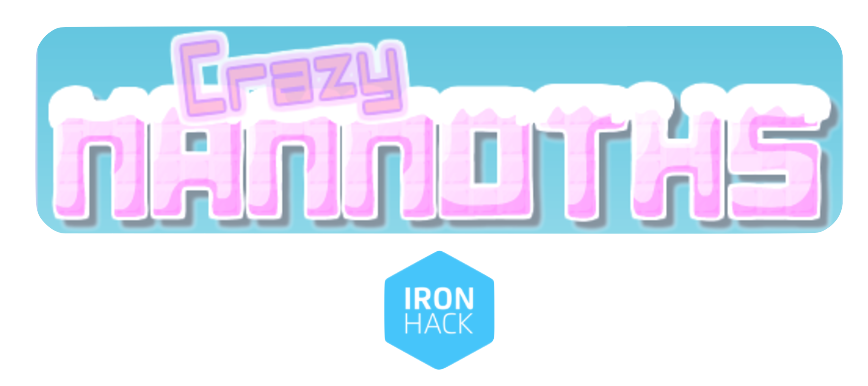
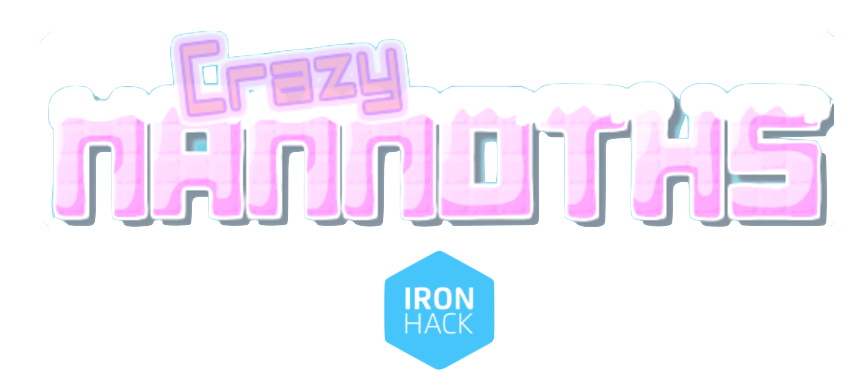
GAME FINISHEDgit status! Yuhuuuuuu

Changed region(s): [[0.0311, 0.0622, 0.9954, 0.6218], [0.5599, 0.3731, 0.591, 0.4663], [0.7776, 0.3109, 0.8088, 0.3731]]

diff --git a/js/board.js b/js/board.js
@@ -3,7 +3,7 @@ function Board(canvas, ctx, backgroundImage) {
   this.ctx = ctx;
 
   // board fix properties
-  this.ctx.translate(400,450);
+  this.ctx.translate(this.canvas.width/2,this.canvas.height*3/4);
   this.ctx.scale(1,-1);
   this.degreeToRad = -Math.PI/180;
   this.backgroundImage = new Image();
@@ -13,9 +13,9 @@ function Board(canvas, ctx, backgroundImage) {
   this.angle = 0;
   this.angleRotation = 0.03;
   this.ctx.rotate(this.degreeToRad*this.angleRotation);
-  this.imagex = -450;
+  this.imagex = -200;
   this.imageVx = 5;
-  this.imagey = -370;
+  this.imagey = -550;
   this.gravity = -0.26;
    //Is it wrong this way?
    //document.dokeydown = this.m1.doKeyDown.bind(this.m1);
@@ -25,9 +25,13 @@ Board.prototype.drawSkyline = function () {
   //dirty solution to clean all canvas
   this.ctx.clearRect(-800, -800, this.canvas.width+1000, this.canvas.height+1000);
   // I draw three times the background so that Mammoths can go "backwards"
-  this.ctx.drawImage(this.backgroundImage, 2, 2, this.backgroundImage.width, this.backgroundImage.height, this.imagex - this.backgroundImage.width, this.imagey, this.backgroundImage.width*2, this.backgroundImage.height*2);
-  this.ctx.drawImage(this.backgroundImage, 2, 2, this.backgroundImage.width, this.backgroundImage.height, this.imagex, this.imagey, this.backgroundImage.width*2, this.backgroundImage.height*2);
-  this.ctx.drawImage(this.backgroundImage, 2, 2, this.backgroundImage.width, this.backgroundImage.height, this.imagex + this.backgroundImage.width, this.imagey, this.backgroundImage.width*2, this.backgroundImage.height*2);
+  // this.ctx.drawImage(this.backgroundImage, 2, 2, this.backgroundImage.width, this.backgroundImage.height, this.imagex - this.backgroundImage.width, this.imagey, this.backgroundImage.width*2, this.backgroundImage.height*2);
+  // this.ctx.drawImage(this.backgroundImage, 2, 2, this.backgroundImage.width, this.backgroundImage.height, this.imagex, this.imagey, this.backgroundImage.width*2, this.backgroundImage.height*2);
+  // this.ctx.drawImage(this.backgroundImage, 2, 2, this.backgroundImage.width, this.backgroundImage.height, this.imagex + this.backgroundImage.width, this.imagey, this.backgroundImage.width*2, this.backgroundImage.height*2);
+
+  this.ctx.drawImage(this.backgroundImage, 2, 2, this.backgroundImage.width, this.backgroundImage.height, this.imagex - this.backgroundImage.width*2, this.imagey, this.backgroundImage.width*3, this.backgroundImage.height*3);
+  this.ctx.drawImage(this.backgroundImage, 2, 2, this.backgroundImage.width, this.backgroundImage.height, this.imagex, this.imagey, this.backgroundImage.width*3, this.backgroundImage.height*3);
+  this.ctx.drawImage(this.backgroundImage, 2, 2, this.backgroundImage.width, this.backgroundImage.height, this.imagex + this.backgroundImage.width*2, this.imagey, this.backgroundImage.width*3, this.backgroundImage.height*3);
   // If tha canvas background is going to finish, I change this.imagex to restart the drawing position
   if(this.imagex > -(450 + this.backgroundImage.width) && this.imagex < this.backgroundImage.width - 450){
     this.imagex -= this.imageVx;
@@ -38,7 +42,7 @@ Board.prototype.drawSkyline = function () {
   // this.ctx.beginPath();
   // this.ctx.moveTo(-500,0);
   // this.ctx.lineTo(500,0);
-  //this.ctx.stroke();
+  // this.ctx.stroke();
 };
 
 //move horizon
@@ -48,7 +52,7 @@ Board.prototype.moveSkyline = function(){
   }else if(this.angle < -20){
     this.angleRotation *= -1;
   }
-  this.angle += this.angleRotation;
+  this.angle += this.angleRotation*2;
   this.imageVx = this.angle*1.5;
   this.ctx.rotate(this.degreeToRad*this.angleRotation);
   // integence to gravity depending on the angle

diff --git a/js/game.js b/js/game.js
@@ -1,6 +1,9 @@
-function Game(canvas){
+function Game(canvas, gameTime){
   this.canvas = document.getElementById(canvas);
+  this.gameTime = gameTime;
   this.ctx = this.canvas.getContext('2d');
+  this.ctx.canvas.width  = window.innerWidth;
+  this.ctx.canvas.height = window.innerHeight;
 
   this.listOfMammoth = [];
   // I add mammoths and the board to the game
@@ -38,10 +41,15 @@ Game.prototype.checkFirstPosition = function () {
   // -----------------  Four mammoths ----------------
   document.getElementById("3rd").innerHTML = game.listOfMammoth[2].name + "  (" + game.listOfMammoth[2].timeFirstPosition +"ms)";
   document.getElementById("4th").innerHTML = game.listOfMammoth[3].name + "  (" + game.listOfMammoth[3].timeFirstPosition +"ms)";
+
+  document.getElementById("gameTime").innerHTML = "Game time: " + Math.round(game.gameTime/1000);
 };
 
-Game.prototype.checkWinner = function(){
 
+Game.prototype.checkWinner = function(){
+    //window.alert("The Winner is: " + game.listOfMammoth[0].name + " !!");
+    document.getElementById("winnerImg").src=this.listOfMammoth[0].img.src;
+    document.getElementById("winnerDiv").style.display = "block";
 };
 
 // we can use only one function for first position
@@ -53,7 +61,7 @@ Game.prototype.checkWinner = function(){
 // };
 
 // new game
-var game = new Game("canvas");
+var game = new Game("canvas",60000);
 
 // document.getElementById('playButton').onClick = function(){
 //   alert("Hola");
@@ -62,8 +70,9 @@ var game = new Game("canvas");
 // WARNING: If I click many times ... I have many Set intervals
 function play(){
     document.getElementById("button").disabled = true;
+    document.getElementById("button").style.display = "none";
     var addCanvas = document.getElementById("canvas");
-    addCanvas.classList.add("canvasDesign");
+    addCanvas.style.display = "block";
     // why this does not work?
     //document.getElementById("canvas").addClass("canvasDesign");
     var intervalId = window.setInterval(function(){
@@ -83,11 +92,14 @@ function play(){
       game.mammoth69.drawMammoth();
       this.addEventListener("keydown",game.mammoth69.doKeyDown.bind(game.mammoth69),true);
 
+      game.gameTime -= 1000/60;
       game.checkFirstPosition();
-    }, 1000/60);
+
+    }, 1000/45);
 
     setTimeout(function(){
-      //window.clearInterval(intervalId);
-    }, 3000);
+      window.clearInterval(intervalId);
+      game.checkWinner();
+    }, game.gameTime);
 
 }

diff --git a/css/index.css b/css/index.css
@@ -3,58 +3,58 @@
   color: #2F4F4F;
 }
 
-.canvasDesign{
-  border: 1px solid pink;
-  margin-top: 20px;
+#canvas{
   background-color: #51c4e0;
+  position: relative;
+  z-index: 3;
+  display: none;
 }
 
 body{
+  margin: 0;
   text-align: center;
   background-image: url("../images/webBackground.png");
   background-size: cover;
   background-repeat: no-repeat;
 
 }
-body button {
-  font-size: 20px;
-  background-color: #3dc4fd;
-  color: #fff;
-  padding: 10px 20px;
-  margin: 25px;
-  border: 0;
-  box-shadow: 0;
-  border-radius: 5px;
+#winnerDiv{
+  z-index: 2000000;
+  position: absolute;
+  bottom: 0;
+  margin-bottom: 300px;
+  width: 100%;
+  display: none;
 }
-header{
-  display: flex;
-  justify-content: center;
+#winnerImg{
+  width: 4000px
+  height: auto;
+  transform: rotate(180deg);
 }
-header img{
-  height: 200px
-}
-#title{
-    height: 50px;
-    width: 100%;
-}
+
 #game{
   display: flex;
   justify-content: space-between;
-  height: 180px;
+  height: auto;
+  position: absolute;
+  top:0;
+  left:0;
+  width:100%;
 }
 #game > div{
-  font-family: serif;
-  font-style: italic;
-  font-weight: bold;
-  margin: 0px 60px;
-  padding: 10px;
-  width: 200px;
+  padding: 20px;
+  z-index: 999;
 }
+
 #clasification h1{
   margin: 1px;
   font-size: 27px;
 }
+#title img{
+    height: 200px;
+}
 #firstPosition h1{
+
   margin: 1px;
   font-size: 30px;
 
@@ -64,4 +64,23 @@ header img{
   height: 100px;
   width: auto;
   padding: 10px;
+}
+
+#holdPlay{
+  position: absolute;
+  bottom: 0;
+  z-index: 2000;
+  width: 100%;
+  margin-bottom: 80px;
+}
+
+#holdPlay button {
+  font-size: 20px;
+  background-color: #3dc4fd;
+  color: #fff;
+  padding: 10px 20px;
+  margin: 25px;
+  border: 0;
+  box-shadow: 0;
+  border-radius: 5px;
 }

diff --git a/index.html b/index.html
@@ -8,13 +8,15 @@
     <link href="https://fonts.googleapis.com/css?family=Roboto+Mono" rel="stylesheet">
   </head>
   <body>
-    <header>
-      <div id="title">
-        <img src="images/title2.png" alt="title">
-      </div>
-    </header>
+    <canvas id="canvas"></canvas>
+
+    <div id="winnerDiv">
+      <h1> The super Winner is: </h1>
+      <img id="winnerImg" src="images/Mammoth10.png" alt="mammoth Winner">
+    </div>
 
     <div id="game">
+
       <div id="clasification">
         <h1>Game clasification</h1>
         <ol>
@@ -24,14 +26,22 @@
           <li id="4th"></li>
         </ol>
       </div>
+
+      <div id="title">
+        <img src="images/title3.png" alt="title">
+      </div>
+
       <div id="firstPosition">
         <h1>First Mammoth</h1>
-        <img id="firstMammoth" src= "images/Mammoth10.png" alt="mammoth Winner">
+        <img id="firstMammoth" src= "images/Mammoth10.png" alt="mammoth Winning">
       </div>
-    </div>
-    <canvas id="canvas" width="800px" height="600px"></canvas>
 
-    <div><button id="button" onclick="play()">Play</button></div>
+    </div>
+
+    <div id="holdPlay">
+      <button id="button" onclick="play()">Play</button>
+      <h1 id="gameTime"> Game time here! </h1>
+    </div>
     <script src="js/mammoth.js"></script>
     <script src="js/board.js"></script>
     <script src="js/game.js"></script>

diff --git a/js/mammoth.js b/js/mammoth.js
@@ -10,7 +10,7 @@ function Mammoth(canvas, ctx, name, size, x, jumpKey, image){
    this.img.src = image;
    // mammoth variable properties
    this.y = 0;
-   this.vx = 0.3;
+   this.vx = 1;
    this.vy = 0;
    this.timeFirstPosition = 0;
 
@@ -22,9 +22,9 @@ function Mammoth(canvas, ctx, name, size, x, jumpKey, image){
    // horizontal speed inteligence with and without collision
    if(!this.collision()){
      if (this.x > 300 || this.x < -300){
-       this.vx += -(this.x/3000);
+       this.vx += -(this.x/6000);
      }else if(this.x > 100 || this.x < -100){
-       this.vx += -(this.x/5000);
+       this.vx += -(this.x/8000);
      }
 
      // if(this.x > 400){ this.vx += -0.04;
@@ -39,12 +39,12 @@ function Mammoth(canvas, ctx, name, size, x, jumpKey, image){
      // }
   }
   // add maximum speed
-  if(this.vx > 6){
-    this.vx = 5.5;
-  }else if(this.vx < - 6){
-    this.vx = -5.5;
+  if(this.vx > 5){
+    this.vx = 4;
+  }else if(this.vx < - 5){
+    this.vx = -4;
   }else{
-    this.x += this.vx;
+    this.x += this.vx*3;
   }
   // vertical speed inteligence (jump and gravity)
   if(this.y > 0){
